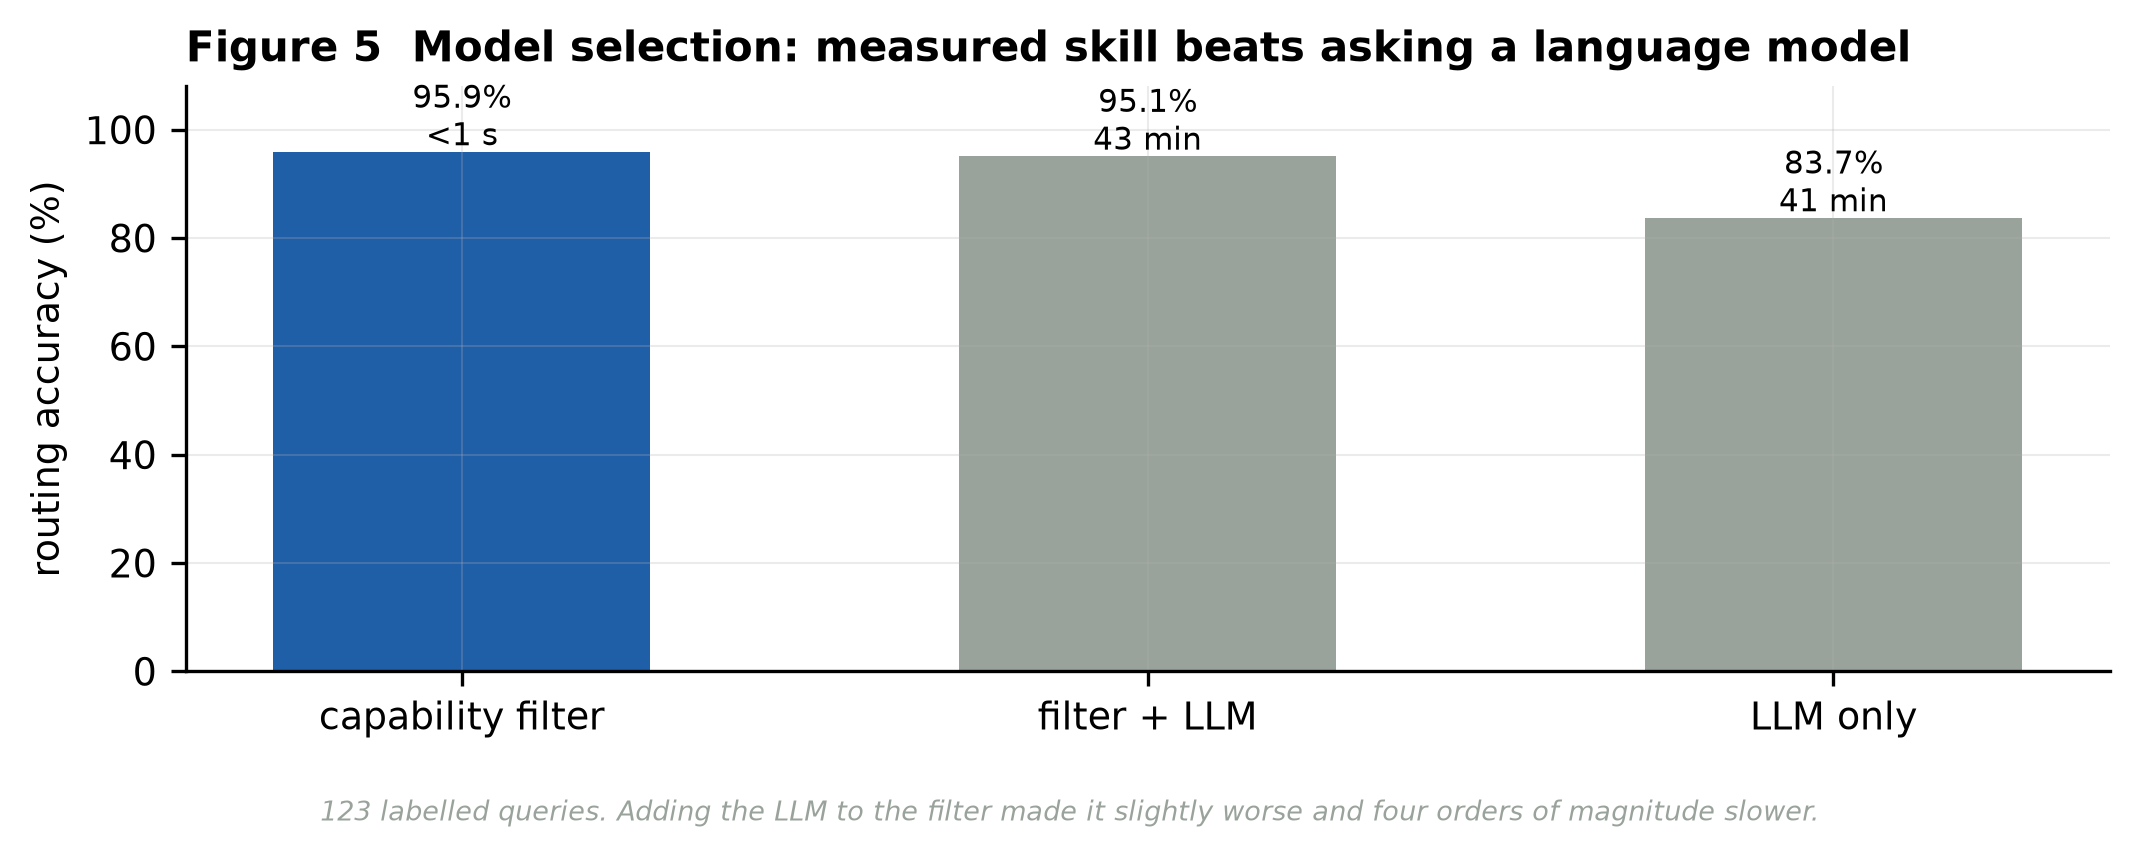
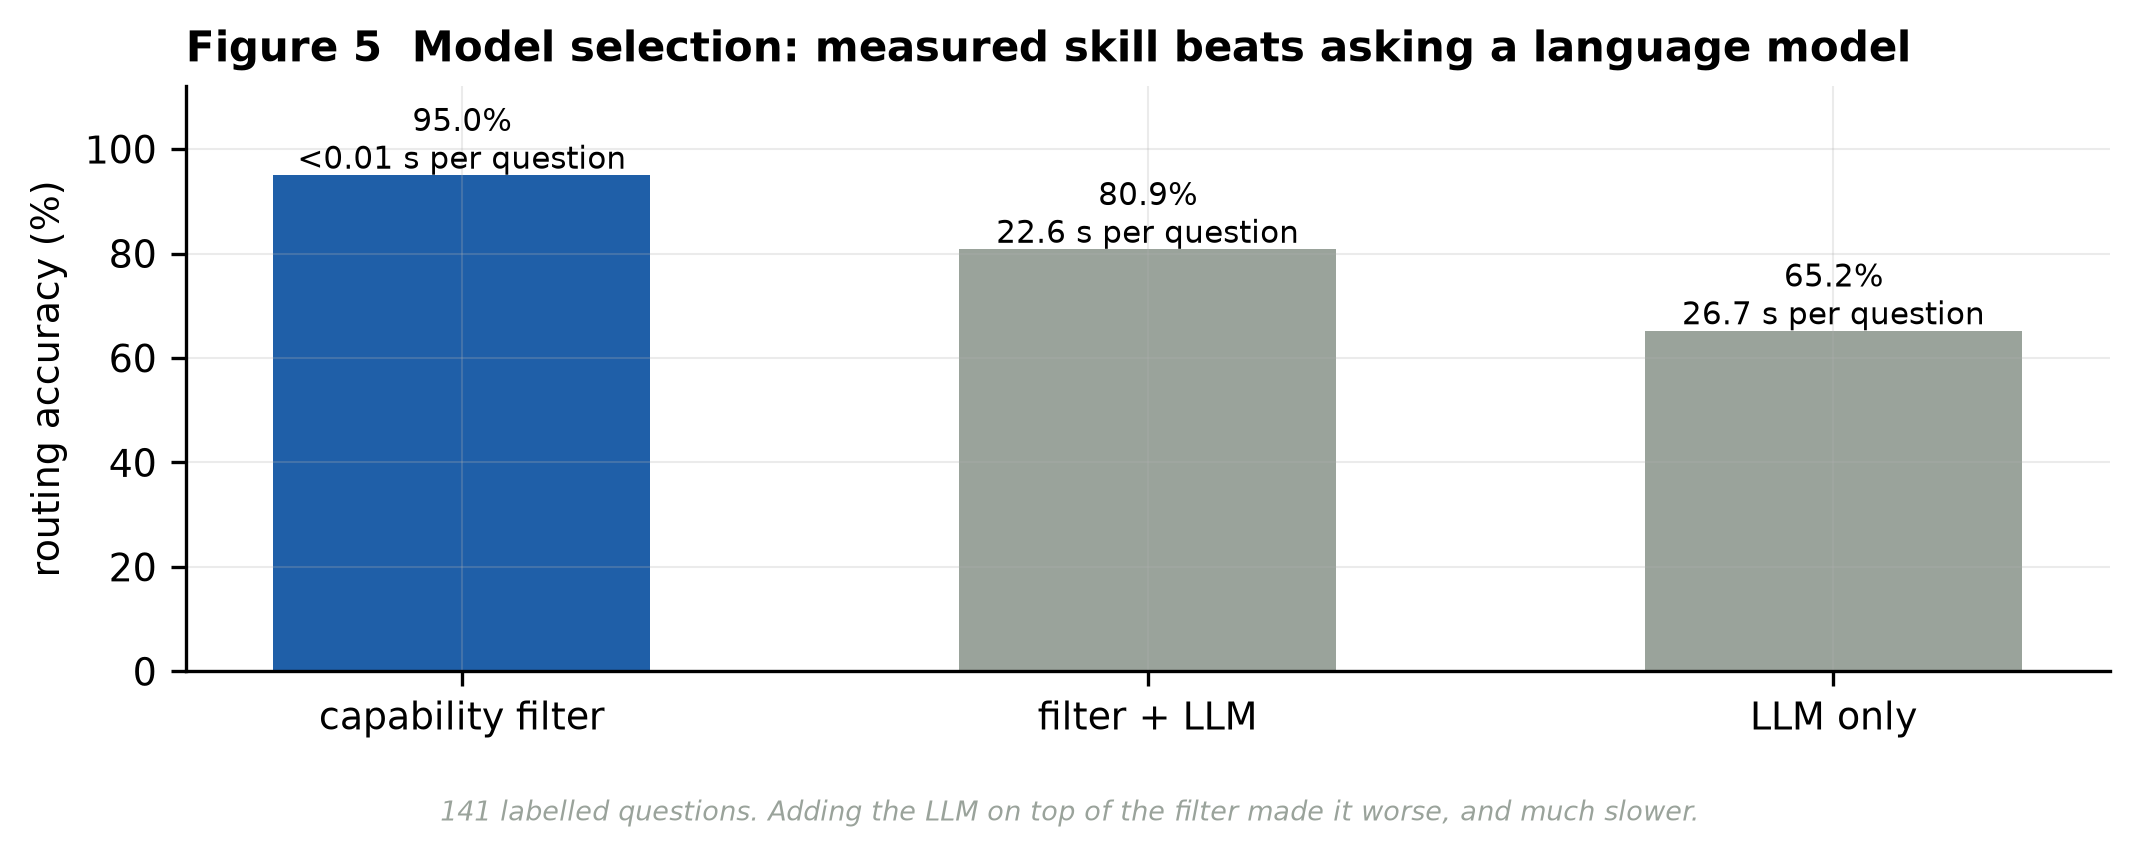
Regenerate routing figure from current results; move report PDFs into docs/

diff --git a/evaluation/report_figures.py b/evaluation/report_figures.py
@@ -185,26 +185,32 @@ def fig_transit():
 
 def fig_routing():
     """Capability filter versus LLM routing."""
-    path = RESULTS / "selection_all.json"
+    path = RESULTS / "selection_with_volatility.json"
     fig, ax = plt.subplots(figsize=(7.2, 2.8))
+    n = 0
     if path.exists():
-        res = json.loads(path.read_text())["results"]
+        order = {"filter_only": 0, "hybrid": 1, "llm_only": 2}
+        sel = json.loads(path.read_text())
+        res = sorted(sel["results"], key=lambda r: order.get(r["strategy"], 9))
         names = {"filter_only": "capability filter", "hybrid": "filter + LLM", "llm_only": "LLM only"}
         labels = [names.get(r["strategy"], r["strategy"]) for r in res]
-        acc = [r["accuracy"] * 100 for r in res]
-        secs = [r["elapsed_seconds"] for r in res]
+        # from the per-question rows: the stored accuracy is rounded to 4 places (0.8085 for 114/141)
+        acc = [100 * sum(q["correct"] for q in sel["rows"][r["strategy"]]) / len(sel["rows"][r["strategy"]])
+               for r in res]
+        per_q = [r["elapsed_seconds"] / r["n"] for r in res]
+        n = res[0]["n"]
         colours = [BEST if r["strategy"] == "filter_only" else MUTED for r in res]
         bars = ax.bar(labels, acc, color=colours, width=0.55)
-        for bar, a, s in zip(bars, acc, secs):
+        for bar, a, s in zip(bars, acc, per_q):
             ax.text(bar.get_x() + bar.get_width() / 2, a + 1.2,
-                    f"{a:.1f}%\n{s / 60:.0f} min" if s > 60 else f"{a:.1f}%\n<1 s",
+                    f"{a:.1f}%\n{s:.1f} s per question" if s >= 0.01 else f"{a:.1f}%\n<0.01 s per question",
                     ha="center", fontsize=7.5)
-        ax.set_ylim(0, 108)
+        ax.set_ylim(0, 112)
         ax.set_ylabel("routing accuracy (%)")
     ax.set_title("Figure 5  Model selection: measured skill beats asking a language model",
                  loc="left", weight="bold")
-    fig.text(0.5, 0.01, "123 labelled queries. Adding the LLM to the filter made it slightly worse "
-                        "and four orders of magnitude slower.",
+    fig.text(0.5, 0.01, f"{n} labelled questions. Adding the LLM on top of the filter made it worse, "
+                        "and much slower.",
              ha="center", fontsize=6.5, color=MUTED, style="italic")
     fig.tight_layout(rect=(0, 0.06, 1, 1))
     return fig

diff --git a/evaluation/make_report_figures.py b/evaluation/make_report_figures.py
@@ -77,7 +77,8 @@ PREVIEW_DIR = os.environ.get("FIGURE_PREVIEW_DIR")
 
 
 def save_figure(fig, stem: str) -> Path:
-    out = ROOT / f"{stem}.pdf"
+    out = ROOT / "docs" / "figures" / f"{stem}.pdf"
+    out.parent.mkdir(parents=True, exist_ok=True)
     fig.savefig(out, **SAVE)
     if PREVIEW_DIR:
         d = Path(PREVIEW_DIR)
